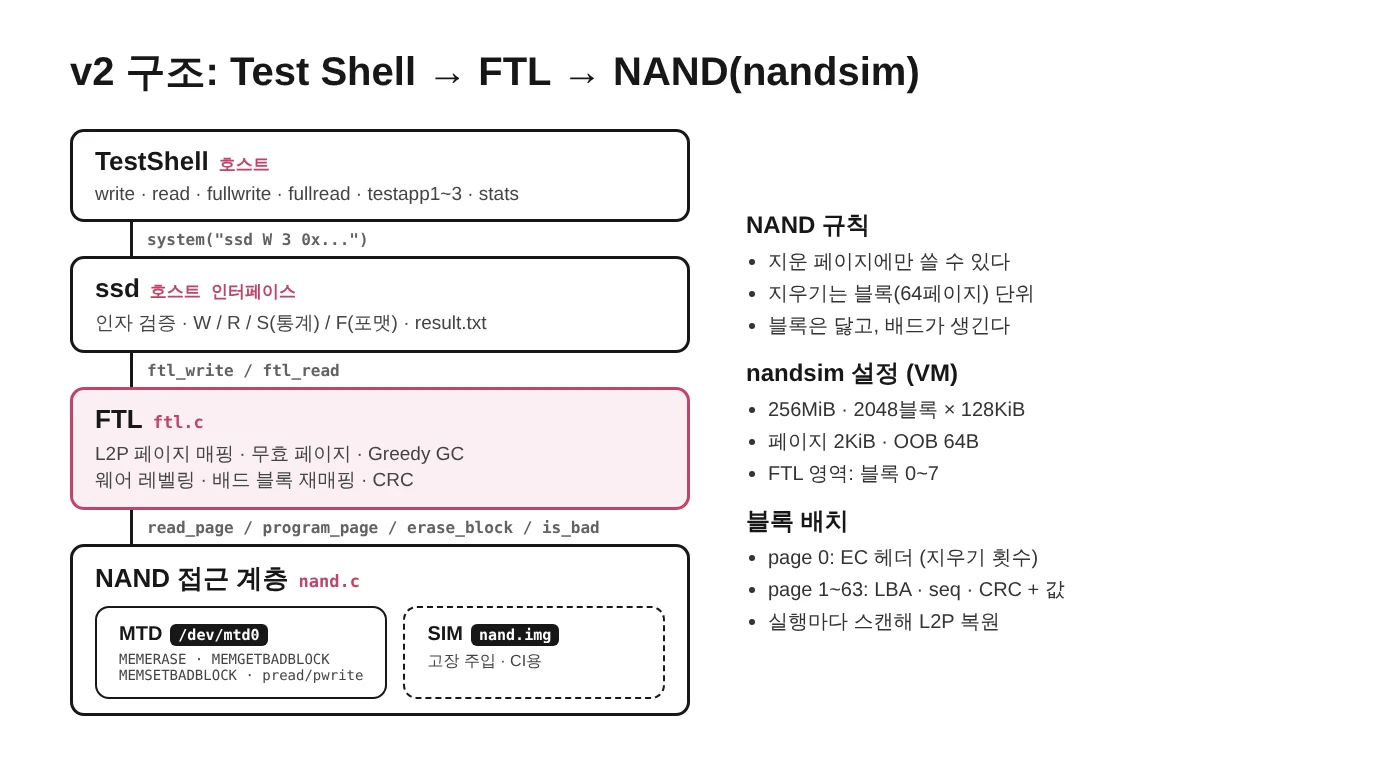
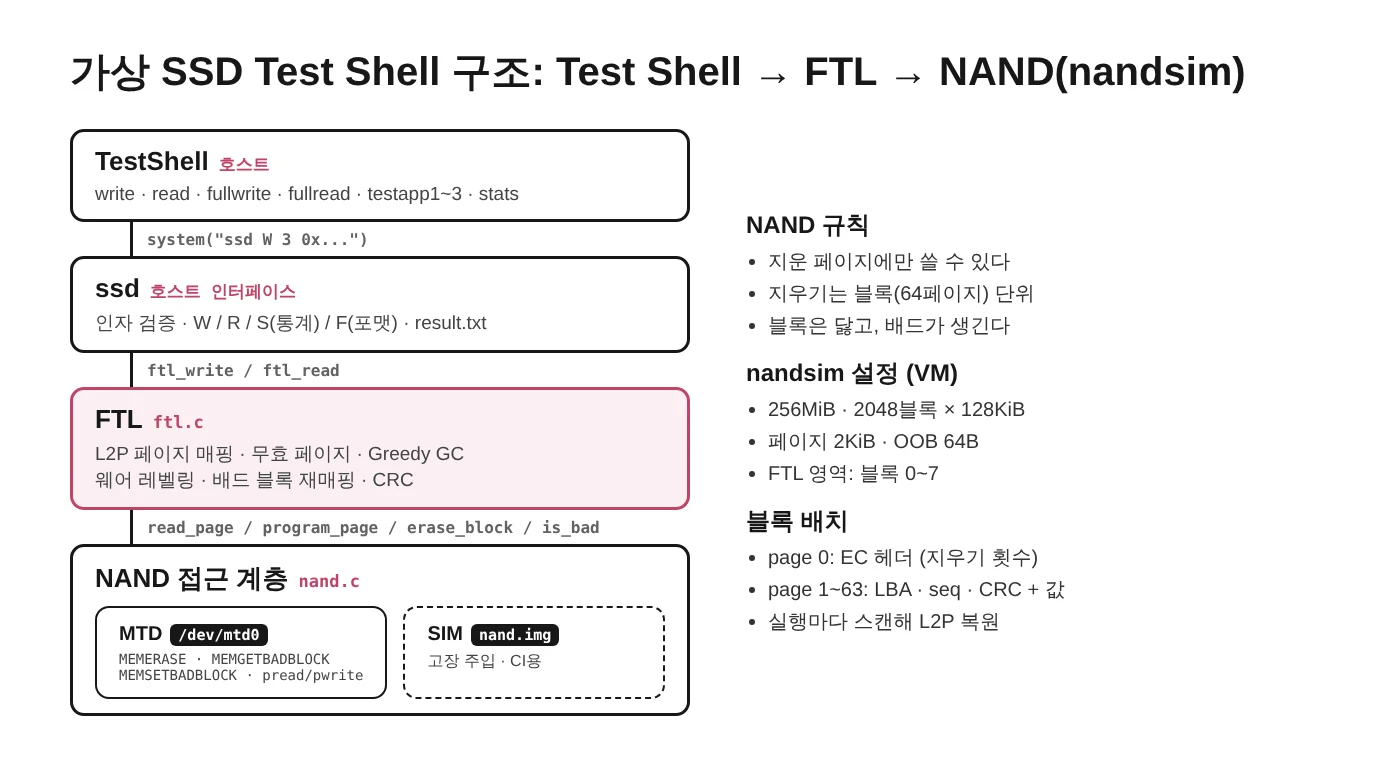
가상 SSD Test Shell을 nandsim·FTL 구조 기준의 한 프로젝트로 다시 정리
v2 확장 섹션을 없애고 요약·기간·구현 범위·구조·핵심 구현·결과를 현재 구조로 재작성.
개발 순서(nand.txt → nandsim)는 배경에 사실대로 남기고 AI 협업 범위 표기 유지.
nand 아트 라벨을 nand.txt에서 NAND로 변경.

Claude-Session: https://claude.ai/code/session_011b2HpzEB7ik83xyBfGRweF

Changed region(s): [[0.0307, 0.0601, 0.8907, 0.1201]]

diff --git a/src/components/project-detail.tsx b/src/components/project-detail.tsx
@@ -15,9 +15,9 @@ function ProjectMark({ project }: { project: Project }) {
     <text x="70" y="36" fontSize="8" fill="currentColor" opacity=".7" fontFamily="var(--font-mono), monospace">rear ← add</text>
     <text x="70" y="50" fontSize="7" fill="currentColor" opacity=".5" fontFamily="var(--font-mono), monospace">queue[100]</text>
   </svg>;
-  if (project.art === "nand") return <svg className="nand-mark" viewBox="0 0 132 64" role="img" aria-label="nand.txt의 LBA 0~99 100칸을 모두 쓰고 읽어 비교해 PASS">
+  if (project.art === "nand") return <svg className="nand-mark" viewBox="0 0 132 64" role="img" aria-label="NAND의 LBA 0~99 100칸을 모두 쓰고 읽어 비교해 PASS">
     {Array.from({ length: 100 }, (_, k) => <rect key={k} x={2 + (k % 10) * 6} y={2 + Math.floor(k / 10) * 6} width="5" height="5" rx="0.6" fill="var(--signal)" opacity={0.35 + 0.65 * ((k % 10) + Math.floor(k / 10)) / 18} />)}
-    <text x="70" y="14" fontSize="7" fill="currentColor" opacity=".6" fontFamily="var(--font-mono), monospace">nand.txt</text>
+    <text x="70" y="14" fontSize="7" fill="currentColor" opacity=".6" fontFamily="var(--font-mono), monospace">NAND</text>
     <text x="70" y="25" fontSize="7" fill="currentColor" opacity=".6" fontFamily="var(--font-mono), monospace">LBA 0–99</text>
     <text x="70" y="44" fontSize="9" fill="currentColor" fontWeight="700" fontFamily="var(--font-mono), monospace">W → R</text>
     <text x="70" y="58" fontSize="11" fill="var(--signal)" fontWeight="800" fontFamily="var(--font-mono), monospace">PASS</text>

diff --git a/src/components/project-art.tsx b/src/components/project-art.tsx
@@ -126,6 +126,6 @@ export function ProjectArt({ project }: { project: Project }) {
       <div className={`art-fallback art-fallback-${project.art}`} aria-hidden="true"><i /><i /><i /></div>
       {project.artLabels.map((label, i) => <span className="art-label" key={i} style={{ "--i": i } as CSSProperties}><b className="num">{String(i + 1).padStart(2, "0")}</b>{label}</span>)}
     </LightField>
-    {project.art === "signal" ? <figcaption><span className="num">CIRCULAR QUEUE / FRONT · REAR</span><span>add → rear에 넣기, del → front 채굴기 cancel·join 뒤 front 이동</span></figcaption> : project.art === "nand" ? <figcaption><span className="num">NAND.TXT / LBA 0–99</span><span>testapp1: 전체 쓰기 → 읽어서 비교 → PASS</span></figcaption> : <figcaption><span className="num">{project.art.toUpperCase()} / ABSTRACT STUDY</span><span>장식용 추상 그래픽</span></figcaption>}
+    {project.art === "signal" ? <figcaption><span className="num">CIRCULAR QUEUE / FRONT · REAR</span><span>add → rear에 넣기, del → front 채굴기 cancel·join 뒤 front 이동</span></figcaption> : project.art === "nand" ? <figcaption><span className="num">NAND / LBA 0–99</span><span>testapp1: 전체 쓰기 → 읽어서 비교 → PASS</span></figcaption> : <figcaption><span className="num">{project.art.toUpperCase()} / ABSTRACT STUDY</span><span>장식용 추상 그래픽</span></figcaption>}
   </figure>;
 }
